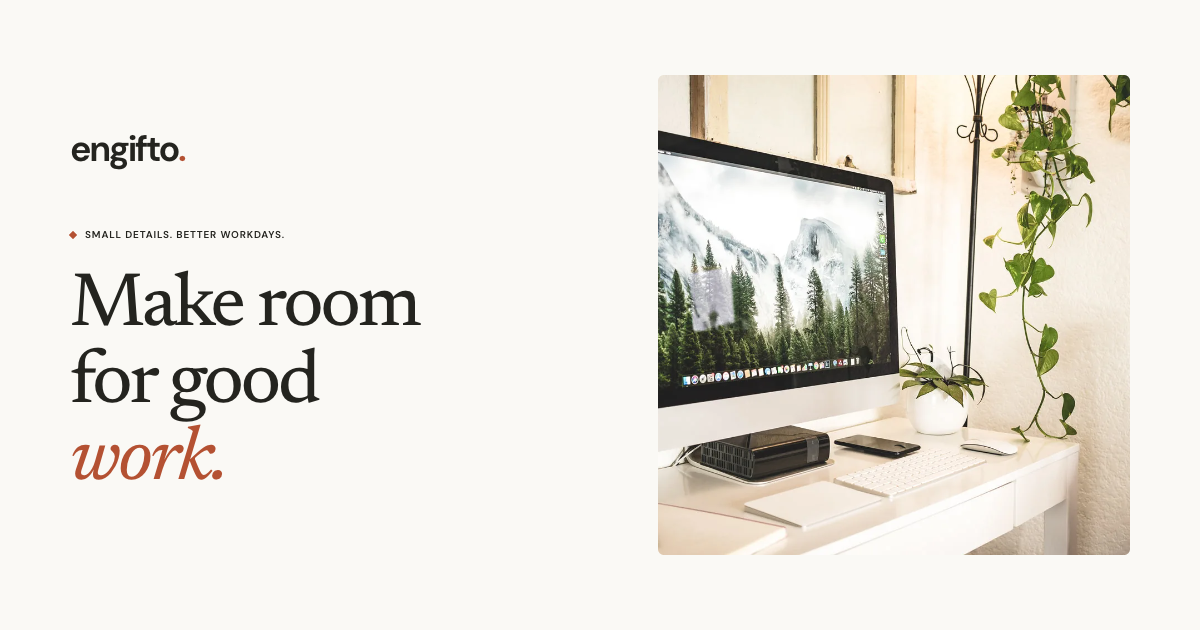
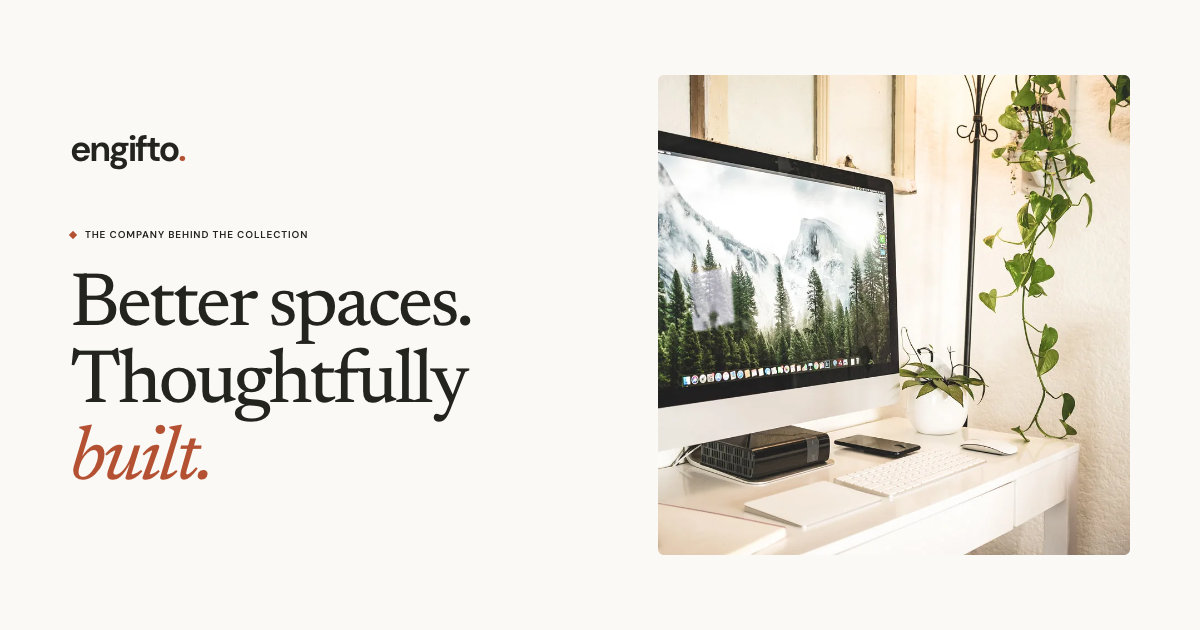
feat: lead Engifto website with company purpose and business context

Changed region(s): [[0.0617, 0.4222, 0.4008, 0.7841], [0.0617, 0.3619, 0.2467, 0.3921]]

diff --git a/tests/landing.spec.ts b/tests/landing.spec.ts
@@ -120,7 +120,7 @@ for (const width of [375, 768, 1024, 1440]) {
     await page.setViewportSize({ width, height: 900 });
     await page.goto('/');
     await page.evaluate(lines => localStorage.setItem('engifto:bag:v1', JSON.stringify(lines)), seed);
-    for (const path of ['/', '/shop', '/products/everyday-notebook', '/cart', '/checkout', '/about', '/contact']) {
+    for (const path of ['/', '/shop', '/products/everyday-notebook', '/cart', '/checkout', '/about', '/approach', '/contact']) {
       await page.goto(path);
       await expect(page.getByRole('heading', { level: 1 })).toBeVisible();
       expect(await page.evaluate(() => document.documentElement.scrollWidth), path).toBeLessThanOrEqual(width);
@@ -140,7 +140,7 @@ test('mobile menu supports keyboard and Escape with reduced motion', async ({ pa
   await expect(menu).toHaveAttribute('aria-expanded', 'false');
   await expect(menu).toBeFocused();
   await menu.click();
-  await page.getByRole('navigation', { name: 'Main' }).getByRole('link', { name: 'Shop the collection' }).click();
+  await page.getByRole('navigation', { name: 'Main' }).getByRole('link', { name: 'Collection' }).click();
   await expect(page).toHaveURL(/shop/);
 });
 
@@ -150,7 +150,7 @@ test('browsing and FAQ remain accessible without JavaScript', async ({ browser, 
   await page.goto(baseURL!);
   await page.getByText(site.faq.items[0].question, { exact: true }).click();
   await expect(page.locator('#faq details').first()).toHaveAttribute('open', '');
-  await page.getByRole('navigation', { name: 'Main' }).getByRole('link', { name: 'Shop the collection' }).click();
+  await page.getByRole('navigation', { name: 'Main' }).getByRole('link', { name: 'Collection' }).click();
   await expect(page.locator('[data-product-card]')).toHaveCount(32);
   await expect(page.locator('.no-js-note')).toBeVisible();
   await context.close();
@@ -215,7 +215,7 @@ test('all product pages have local decodable photos and no prototype labels', as
     await photo.scrollIntoViewIfNeeded();
     await expect.poll(() => photo.evaluate((image: HTMLImageElement) => image.complete && image.naturalWidth > 0)).toBeTruthy();
   }
-  for (const path of ['/', '/cart', '/checkout', '/order-confirmation', '/about', '/contact', '/photography', '/policies/shipping', '/policies/returns', '/policies/privacy', '/policies/terms']) {
+  for (const path of ['/', '/cart', '/checkout', '/order-confirmation', '/about', '/approach', '/contact', '/photography', '/policies/shipping', '/policies/returns', '/policies/privacy', '/policies/terms']) {
     await page.goto(path);
     expect(await page.locator('body').innerText(), path).not.toMatch(/\bdemo\b|\bpreview\b|\bbag\b/i);
   }
@@ -224,7 +224,7 @@ test('all product pages have local decodable photos and no prototype labels', as
 test('business context, metadata and crawler routes describe the storefront accurately', async ({ page, request }) => {
   await page.goto('/about');
   await expect(page.getByText(site.business.description, { exact: true })).toBeVisible();
-  await expect(page.getByRole('heading', { name: /A focused collection/ })).toBeVisible();
+  await expect(page.getByRole('heading', { name: /A focused business/ })).toBeVisible();
   await expect(page.locator('a[href^="mailto:"]')).toHaveCount(site.contactEmail ? 2 : 0);
   const schema = JSON.parse((await page.locator('script[type="application/ld+json"]').textContent())!);
   expect(schema).toMatchObject({ '@type': 'WebSite', name: 'Engifto', url: 'https://engifto.com/', inLanguage: 'en' });
@@ -239,7 +239,28 @@ test('business context, metadata and crawler routes describe the storefront accu
     return { errors: document.querySelectorAll('parsererror').length, urls: [...document.querySelectorAll('loc')].map(node => node.textContent) };
   }, sitemap);
   expect(parsed.errors).toBe(0);
-  expect(parsed.urls).toHaveLength(41);
+  expect(parsed.urls).toHaveLength(42);
   expect(parsed.urls).toContain('https://engifto.com/about/');
   expect(parsed.urls).not.toContain('https://engifto.com/checkout/');
+});
+
+
+test('company pages lead with business context and keep commerce secondary', async ({ page, request }) => {
+  await page.goto('/');
+  await expect(page.locator('.hero-actions .button')).toHaveAttribute('href', '/about');
+  await expect(page.locator('main [data-add-id]')).toHaveCount(0);
+  await expect(page.locator('header [data-cart-link]')).toHaveCount(0);
+  await expect(page.getByRole('heading', { name: 'Workspace commerce.' })).toBeVisible();
+  await page.getByRole('navigation').getByRole('link', { name: 'Our approach', exact: true }).click();
+  await expect(page).toHaveURL(/approach/);
+  await expect(page.getByRole('heading', { name: 'Focus the collection.' })).toBeVisible();
+  await expect(page.getByRole('navigation').getByRole('link', { name: 'Our approach', exact: true })).toHaveAttribute('aria-current', 'page');
+  await page.getByRole('navigation').getByRole('link', { name: 'Collection', exact: true }).click();
+  await expect(page.locator('header [data-cart-link]')).toHaveCount(1);
+  for (const path of ['/about/', '/approach/', '/contact/']) {
+    const response = await request.get(path);
+    expect(response.ok(), path).toBeTruthy();
+    const html = await response.text();
+    expect(html).not.toContain('powered by Claude');
+  }
 });

diff --git a/src/content/site.ts b/src/content/site.ts
@@ -1,16 +1,16 @@
-/** Editable storefront copy. Catalog/prices/photos are sample inventory. */
+/** Editable company copy. Only publish verified business and contact information. */
 export const site = {
   name: 'Engifto',
   language: 'en',
   indexable: false,
   contactEmail: null as string | null,
   seo: {
-    title: 'Engifto — Thoughtful essentials for your workspace',
-    description: 'Engifto brings paper goods, desk lighting, and workspace accessories into one considered collection for home offices, study spaces, and creative studios.',
+    title: 'Engifto — Building better everyday workspaces',
+    description: 'Engifto is building a workspace commerce business that brings thoughtful everyday products and a simpler discovery experience together. Learn about our purpose, audience, and approach.',
     image: '/og.png',
   },
   labels: { home: 'Engifto home', openMenu: 'Open navigation', navigation: 'Main', skip: 'Skip to content', backToTop: 'Back to top' },
-  announcement: 'Small details for better workdays.',
+  announcement: 'Thoughtful products. A more considered everyday.',
   business: {
     description: 'Engifto is building a focused online collection of paper goods, desk lighting, and workspace accessories for people who work, study, and create at home.',
     audience: 'Home offices, study spaces, and creative studios.',
@@ -18,18 +18,23 @@ export const site = {
     building: 'A straightforward shopping experience with a searchable collection, clear product information, and a cart that keeps your choices together.',
   },
   hero: {
-    eyebrow: 'Small details. Better workdays.',
-    lines: ['Make room', 'for good', 'work.'],
-    description: 'Thoughtful desk essentials for the notes you take, the ideas you keep, and the space you make your own.',
-    primary: 'Explore the collection', secondary: 'Our story',
+    eyebrow: 'The company behind the collection',
+    lines: ['Better spaces.', 'Thoughtfully', 'built.'],
+    description: 'We’re building Engifto to connect useful workspace products with a simpler way to discover them. A focused commerce business for the places where people work, study, and create.',
+    primary: 'Meet Engifto', secondary: 'Our approach',
     image: '/images/hero.webp', alt: 'A calm home workspace with a white desk, greenery, and natural light',
     caption: 'A little less clutter. A little more possibility.',
   },
+  approach: [
+    { number: '01', title: 'Focus the collection.', description: 'Start with a clear use case: the personal workspace. Bring paper goods, lighting, and desk accents together around everyday routines.' },
+    { number: '02', title: 'Make discovery simpler.', description: 'Give people useful categories, searchable products, and readable details so they can compare options without unnecessary noise.' },
+    { number: '03', title: 'Build with care.', description: 'Keep the experience consistent from discovery to selection, and develop the operational details alongside the product experience.' },
+  ],
   faq: { items: [
-    { question: 'What will I find in the collection?', answer: 'Explore paper goods, writing tools, desk lighting, and thoughtful accents for your workspace. Each product page brings together its price, description, and details.' },
-    { question: 'How is shipping calculated?', answer: 'For US addresses, standard shipping is estimated at $6.95, with free standard shipping from a $100 merchandise subtotal. Express shipping is estimated at $12.95. Choose an option at checkout to see the total.' },
-    { question: 'Can I change my cart?', answer: 'Yes. Open your cart to adjust quantities or remove an item. Your selections stay in this browser so you can continue exploring. You can add up to 10 of each item.' },
-    { question: 'How do I find the right essential?', answer: 'Search the collection by name, filter by paper and writing, desk lighting, or desk accents, and sort by price or new arrivals. Product details help you explore each piece.' },
+    { question: 'What is Engifto?', answer: 'Engifto is a workspace commerce business in development. We are bringing paper goods, desk lighting, and workspace accessories into a focused collection, with a digital experience that makes them easier to explore.' },
+    { question: 'Who are you building for?', answer: 'People who work, study, and create in their own spaces: home-office workers, students, and independent creatives. Our starting point is the everyday personal workspace.' },
+    { question: 'What is your business model?', answer: 'Our intended model is direct-to-consumer online retail of workspace essentials. The website brings together the company story and the collection experience; commercial operations are still being developed.' },
+    { question: 'What can I explore today?', answer: 'You can learn about our purpose and approach, browse the collection, search and compare product details, and keep selections together in a cart. We will publish fulfillment and business contact details as they are confirmed.' },
   ] },
   notFound: { pageTitle: 'Page not found', eyebrow: '404 / A small detour', title: 'This page is\nstill a blank canvas.', description: 'The page you’re looking for doesn’t exist. Let’s find something thoughtful instead.', cta: 'Back to Engifto' },
 };

diff --git a/src/styles/store.css b/src/styles/store.css
@@ -275,3 +275,40 @@ input,select,textarea { font-size:16px; }
 .business-section dt { font-size:13px; color:var(--accent); margin-bottom:9px; }
 .business-section dd { margin:0; color:var(--muted); font-size:16px; }
 @media(max-width:767px) { .business-section { grid-template-columns:1fr; gap:28px; padding-block:0 55px; } .business-section h2 { font-size:37px; } }
+/* Company pages lead with purpose; the collection remains a secondary experience. */
+.company-header .main-nav { margin-right:0; }
+.company-hero h1 { font-size:clamp(56px,5.8vw,78px); }
+.company-intro { display:grid; grid-template-columns:1fr 2fr; gap:70px; padding-block:65px 85px; border-top:1px solid var(--border); }
+.company-intro>.eyebrow { padding-top:12px; }
+.company-intro h2 { font-size:clamp(38px,4vw,54px); }
+.company-intro h2 em { color:var(--accent); }
+.company-intro p:not(.eyebrow) { max-width:620px; margin-top:24px; font-size:17px; }
+.company-pillars { display:grid; grid-template-columns:repeat(3,minmax(0,1fr)); gap:40px; }
+.company-pillars article { padding-top:28px; border-top:1px solid var(--border); }
+.company-pillars h3 { font-size:32px; margin-block:23px 17px; }
+.company-pillars p { font-size:16px; }
+.company-process { border-top:1px solid var(--border); }
+.company-steps { list-style:none; margin:0; padding:0; }
+.company-steps li { display:grid; grid-template-columns:70px 1fr 24px; gap:30px; padding-block:30px; border-top:1px solid var(--border); }
+.company-steps li:last-child { border-bottom:1px solid var(--border); }
+.company-steps li>span { font-family:var(--font-display); font-size:32px; color:var(--accent); }
+.company-steps h3,.company-steps h2 { font-size:34px; }
+.company-steps p { max-width:690px; margin-top:14px; font-size:16px; }
+.company-steps svg { width:22px; color:var(--accent); margin-top:8px; }
+.approach-delivery { padding-top:80px; }
+@media(max-width:1100px) { .company-intro { gap:40px; } .company-pillars { gap:25px; } }
+@media(max-width:767px) {
+ .company-header .menu-toggle { margin-left:auto; }
+ .company-hero h1 { font-size:clamp(48px,12vw,64px); }
+ .company-intro { grid-template-columns:1fr; gap:15px; padding-block:40px 55px; }
+ .company-intro>.eyebrow { padding-top:0; }
+ .company-intro h2 { font-size:39px; }
+ .company-intro p:not(.eyebrow) { font-size:16px; margin-top:20px; }
+ .company-pillars { grid-template-columns:1fr; gap:30px; }
+ .company-pillars h3 { margin-top:16px; }
+ .company-steps li { grid-template-columns:36px 1fr; gap:17px; padding-block:25px; }
+ .company-steps h3,.company-steps h2 { font-size:29px; }
+ .company-steps svg { display:none; }
+ .approach-delivery { padding-top:55px; }
+ .company-hero .photo-index { font-size:11px; max-width:calc(100% - 40px); }
+}

diff --git a/src/content/policies.ts b/src/content/policies.ts
@@ -30,7 +30,7 @@ export const policies = {
       { heading: 'The collection', paragraphs: ['Engifto presents paper goods, desk lighting, and workspace accents. Product pages include a description, price in US dollars, and details for each item. The collection and its information may change.'] },
       { heading: 'Your selections', paragraphs: ['The cart keeps product IDs and quantities in this browser. Checkout creates a selection summary in the current browser-tab session. Clearing site data or closing the session may remove these records.'] },
       { heading: 'Photography', paragraphs: ['Stock photographs are sourced from Burst by Shopify under the licenses linked in our photography credits. Photos can include styling accessories. No affiliation or endorsement by Shopify or the photographers is implied.'] },
-      { heading: 'Information and privacy', paragraphs: ['Please review the shipping, returns, and privacy pages for details relevant to the website. Help & contact brings these resources together.'] },
+      { heading: 'Information and privacy', paragraphs: ['Please review the shipping, returns, and privacy pages for details relevant to the website. Contact & company information brings these resources together.'] },
     ],
   },
 };

diff --git a/src/pages/sitemap.xml.ts b/src/pages/sitemap.xml.ts
@@ -3,7 +3,7 @@ import { products } from '../content/catalog';
 import { policies } from '../content/policies';
 
 export const GET: APIRoute = ({ site }) => {
-  const paths = ['/', '/shop/', '/about/', '/contact/', '/photography/', ...products.map(product => `/products/${product.id}/`), ...Object.keys(policies).map(slug => `/policies/${slug}/`)];
+  const paths = ['/', '/shop/', '/about/', '/approach/', '/contact/', '/photography/', ...products.map(product => `/products/${product.id}/`), ...Object.keys(policies).map(slug => `/policies/${slug}/`)];
   const entries = paths.map(path => `<url><loc>${new URL(path, site).href}</loc></url>`).join('');
   return new Response(`<?xml version="1.0" encoding="UTF-8"?><urlset xmlns="http://www.sitemaps.org/schemas/sitemap/0.9">${entries}</urlset>`, { headers: { 'Content-Type': 'application/xml; charset=utf-8' } });
 };

diff --git a/README.md b/README.md
@@ -1,6 +1,6 @@
 # Engifto
 
-Storefront tiếng Anh cho **phụ kiện bàn làm việc, giấy viết và đèn**, xây bằng Astro + TypeScript + CSS. Giữ nền kem, Newsreader / DM Sans và màu đất nung lấy cảm hứng từ Claude. Thiết kế áp dụng UI/UX Pro Max với override để giữ nhận diện hiện tại.
+Website doanh nghiệp tiếng Anh cho **Engifto — workspace commerce**, kèm collection phụ kiện bàn làm việc, giấy viết và đèn, xây bằng Astro + TypeScript + CSS. Giữ nền kem, Newsreader / DM Sans và màu đất nung lấy cảm hứng từ Claude. Thiết kế áp dụng UI/UX Pro Max với override để giữ nhận diện hiện tại.
 
 ## Chạy local
 
@@ -24,12 +24,13 @@ Chạy check và build lần lượt. Playwright khởi chạy bản production 
 
 ## Có trong bản hiện tại
 
-- Home, shop với search/category/sort và URL filters.
+- Home giới thiệu mục tiêu, đối tượng, mô hình kinh doanh dự kiến và trải nghiệm đang xây.
+- Company, Our approach và Contact; shop là Collection phụ trợ với search/category/sort và URL filters.
 - 32 trang sản phẩm, chọn số lượng, giới hạn 10 mỗi sản phẩm.
 - Giỏ hàng lưu trên trình duyệt, chỉnh số lượng, xóa sản phẩm, đồng bộ nhiều tab.
 - Checkout có validation, shipping standard/express, tính tiền bằng integer cents.
 - Xác nhận đơn **demo**; không thu tiền, gửi email hay tạo đơn thật.
-- Our story, Help & contact, shipping/returns/privacy/terms, credits ảnh và 404.
+- Shipping/returns/privacy/terms, credits ảnh và 404.
 - Responsive, keyboard navigation, no-JS browsing, font và ảnh tự host.
 
 ## Thay nội dung nhanh
@@ -41,7 +42,7 @@ Chạy check và build lần lượt. Playwright khởi chạy bản production 
 | Thông tin shipping/returns/privacy/terms | `src/content/policies.ts` |
 | Phí giao hàng demo và giới hạn số lượng | `src/lib/cart.ts` |
 | Bảng màu / font | `src/styles/global.css` |
-| Layout storefront | `src/styles/store.css` |
+| Layout company / storefront | `src/styles/store.css` |
 | Domain canonical | `astro.config.mjs` |
 
 Giá hiển thị USD. Standard $6.95, miễn phí từ subtotal $100; express $12.95. Đây là giá/phí mẫu, không phải chính sách bán hàng thật.
@@ -83,12 +84,14 @@ Astro static không cần adapter hoặc database cho bản demo.
 
 `vercel.json` thiết lập CSP và các security headers. CSP hiện chặn gửi form và third-party scripts; phải điều chỉnh có chủ đích nếu thêm thanh toán/API thật. Kiểm tra header thực tế sau deploy.
 
-`indexable: false` giữ bản nháp ngoài search bằng meta robots; không phải bảo vệ truy cập. `robots.txt` cho phép crawler đọc các trang công khai và chỉ chặn các route cart/checkout/confirmation; `/sitemap.xml` liệt kê 41 trang nội dung và sản phẩm. Chỉ bật sau khi nội dung thật được xác nhận. Vercel Preview có thể thêm noindex; dùng production deployment cho website chính thức. Domain không tự tạo mailbox.
+`indexable: false` giữ bản nháp ngoài search bằng meta robots; không phải bảo vệ truy cập. `robots.txt` cho phép crawler đọc các trang công khai và chỉ chặn các route cart/checkout/confirmation; `/sitemap.xml` liệt kê 42 trang nội dung và sản phẩm. Chỉ bật sau khi nội dung thật được xác nhận. Vercel Preview có thể thêm noindex; dùng production deployment cho website chính thức. Domain không tự tạo mailbox.
 
 ## Trước khi bán hàng hoặc nộp Claude Startups
 
 Thay catalog/ảnh mẫu bằng sản phẩm và quyền sử dụng thật; bổ sung pháp nhân và support contact; chốt giá, tồn kho, thuế và shipping/returns. Tích hợp nền tảng commerce, backend xác minh giá, thanh toán, webhook và fulfillment trước khi bật mua thật. Cập nhật privacy/terms theo hệ thống thực tế.
 
-Xem [Claude Startups](docs/claude-startups.md). Website là phần trình bày hoạt động, không đảm bảo hồ sơ được duyệt. Repo chưa deploy hoặc submit hồ sơ.
+Xem [Claude Startups](docs/claude-startups.md). Website là phần trình bày hoạt động, không đảm bảo hồ sơ được duyệt. Việc submit hồ sơ không nằm trong chức năng website.
 
-Trang About nêu rõ sản phẩm, đối tượng phục vụ và mục tiêu của storefront; WebSite structured data không chứa pháp nhân hay lịch sử chưa xác nhận. Email giữ trống theo yêu cầu; bổ sung mailbox hoạt động ở `site.contactEmail` trước khi nộp Claude Startups.
+Các trang doanh nghiệp nêu rõ mục tiêu, sản phẩm, đối tượng phục vụ và mô hình dự kiến; WebSite structured data không chứa pháp nhân hay lịch sử chưa xác nhận. Email giữ trống theo yêu cầu; bổ sung mailbox hoạt động ở `site.contactEmail` trước khi nộp Claude Startups.
+
+Trang doanh nghiệp không có cart/search trên header hoặc nút Add to cart trong nội dung. Các route shop/product/cart/checkout/confirmation giữ công cụ commerce và flow cũ. Nội dung mới không tuyên bố đã bán hàng, có doanh thu, funding hay tích hợp Claude. Xem [định hướng website](docs/company-site.md).

diff --git a/docs/claude-startups.md b/docs/claude-startups.md
@@ -62,7 +62,7 @@ Form nằm sau đăng nhập và chưa được kiểm tra trường chi tiết 
 
 - About nêu rõ thứ đang xây dựng, đối tượng home office/study/creative studio và vấn đề giải quyết. Đây là định vị sản phẩm, không phải tuyên bố doanh thu hay lịch sử công ty.
 - Metadata và structured data chỉ mô tả WebSite; không tạo pháp nhân, ngày thành lập, reviews, availability hoặc tích hợp Claude chưa xác nhận.
-- Robots cho phép đọc các trang công khai; sitemap liệt kê 41 trang nội dung và sản phẩm, bỏ cart/checkout/confirmation. Bản nháp vẫn noindex bằng meta; FAQ không yêu cầu search indexing.
+- Robots cho phép đọc các trang công khai; sitemap liệt kê 42 trang nội dung và sản phẩm, bỏ cart/checkout/confirmation. Bản nháp vẫn noindex bằng meta; FAQ không yêu cầu search indexing.
 - Email và pháp nhân giữ trống theo xác nhận của người dùng. Không tạo mailbox giả. Đây vẫn là thông tin cần hoàn thiện thực tế trước khi submit.
 
 Mô tả ngắn có thể dùng sau khi sếp xác nhận đúng hoạt động:
@@ -70,3 +70,13 @@ Mô tả ngắn có thể dùng sau khi sếp xác nhận đúng hoạt động:
 > Engifto is building a focused online collection of paper goods, desk lighting, and workspace accessories for home offices, study spaces, and creative studios. The storefront brings together a searchable catalog, product information, a persistent cart, and a browser-based checkout experience.
 
 Nếu cần phần Claude trong hồ sơ, mô tả chỉ những task đang dùng hoặc kế hoạch được sếp xác nhận (ví dụ catalog editing, nội dung sản phẩm, hỗ trợ phát triển storefront). Không tự ghi đã tích hợp Claude API.
+
+## Chuyển trọng tâm sang website doanh nghiệp — 08/10/2026
+
+Trang chủ hiện giới thiệu mục tiêu, đối tượng phục vụ, mô hình direct-to-consumer dự kiến và cách phát triển trải nghiệm. Company và Our approach bổ sung bối cảnh; Contact tập trung thông tin doanh nghiệp. Collection vẫn truy cập được, với 32 sản phẩm và flow checkout trong browser.
+
+Không có tiêu chí công khai bắt buộc dùng website doanh nghiệp thay cho shop. Thay đổi giúp người xét hồ sơ hiểu thứ đang xây, không thay thế eligibility, email domain hoặc thông tin pháp nhân thật. Hướng workspace commerce vẫn cần sếp xác nhận phù hợp doanh nghiệp nộp hồ sơ.
+
+Mô tả mới có thể dùng sau khi xác nhận:
+
+> Engifto is developing a direct-to-consumer workspace commerce business for people who work, study, and create in personal spaces. We are building a focused collection of paper goods, desk lighting, and workspace accessories alongside a simpler digital discovery experience. The collection experience is available to explore; commercial operations and fulfillment are still being developed.

diff --git a/docs/company-site.md b/docs/company-site.md
@@ -1,0 +1,24 @@
+# Engifto company website
+
+## Direction
+
+Keep the existing ivory, terracotta, Newsreader / DM Sans identity. Lead with the company purpose, audience, intended business model and product experience. Workspace commerce is the working direction inherited from the existing catalog, not a newly verified legal business identity.
+
+## Scope and acceptance
+
+- Home leads to Company and Our approach, with no prices or purchase buttons.
+- Company explains purpose, audience and intended direct-to-consumer model.
+- Our approach explains the opportunity, product discovery and foundations still being developed.
+- Contact provides company context and only shows an email when configured.
+- Shared navigation and footer put company information first. Cart/search appear in the header only on commerce routes.
+- Collection, 32 product pages, cart and browser checkout retain their behavior.
+- Metadata, social image, sitemap and docs reflect the company direction.
+- No invented team, legal entity, funding, traction, inventory or Claude integration.
+
+## Verification
+
+Astro check/build, cart unit tests and Playwright verify navigation, responsive layouts, corporate content, local photographs, crawler routes and the existing checkout flow under the production CSP. Visually inspect desktop and mobile.
+
+## Before submitting
+
+Confirm business direction and applicant eligibility with the CEO. Configure a real domain email and verified business details. This website change does not guarantee Claude Startups approval.
